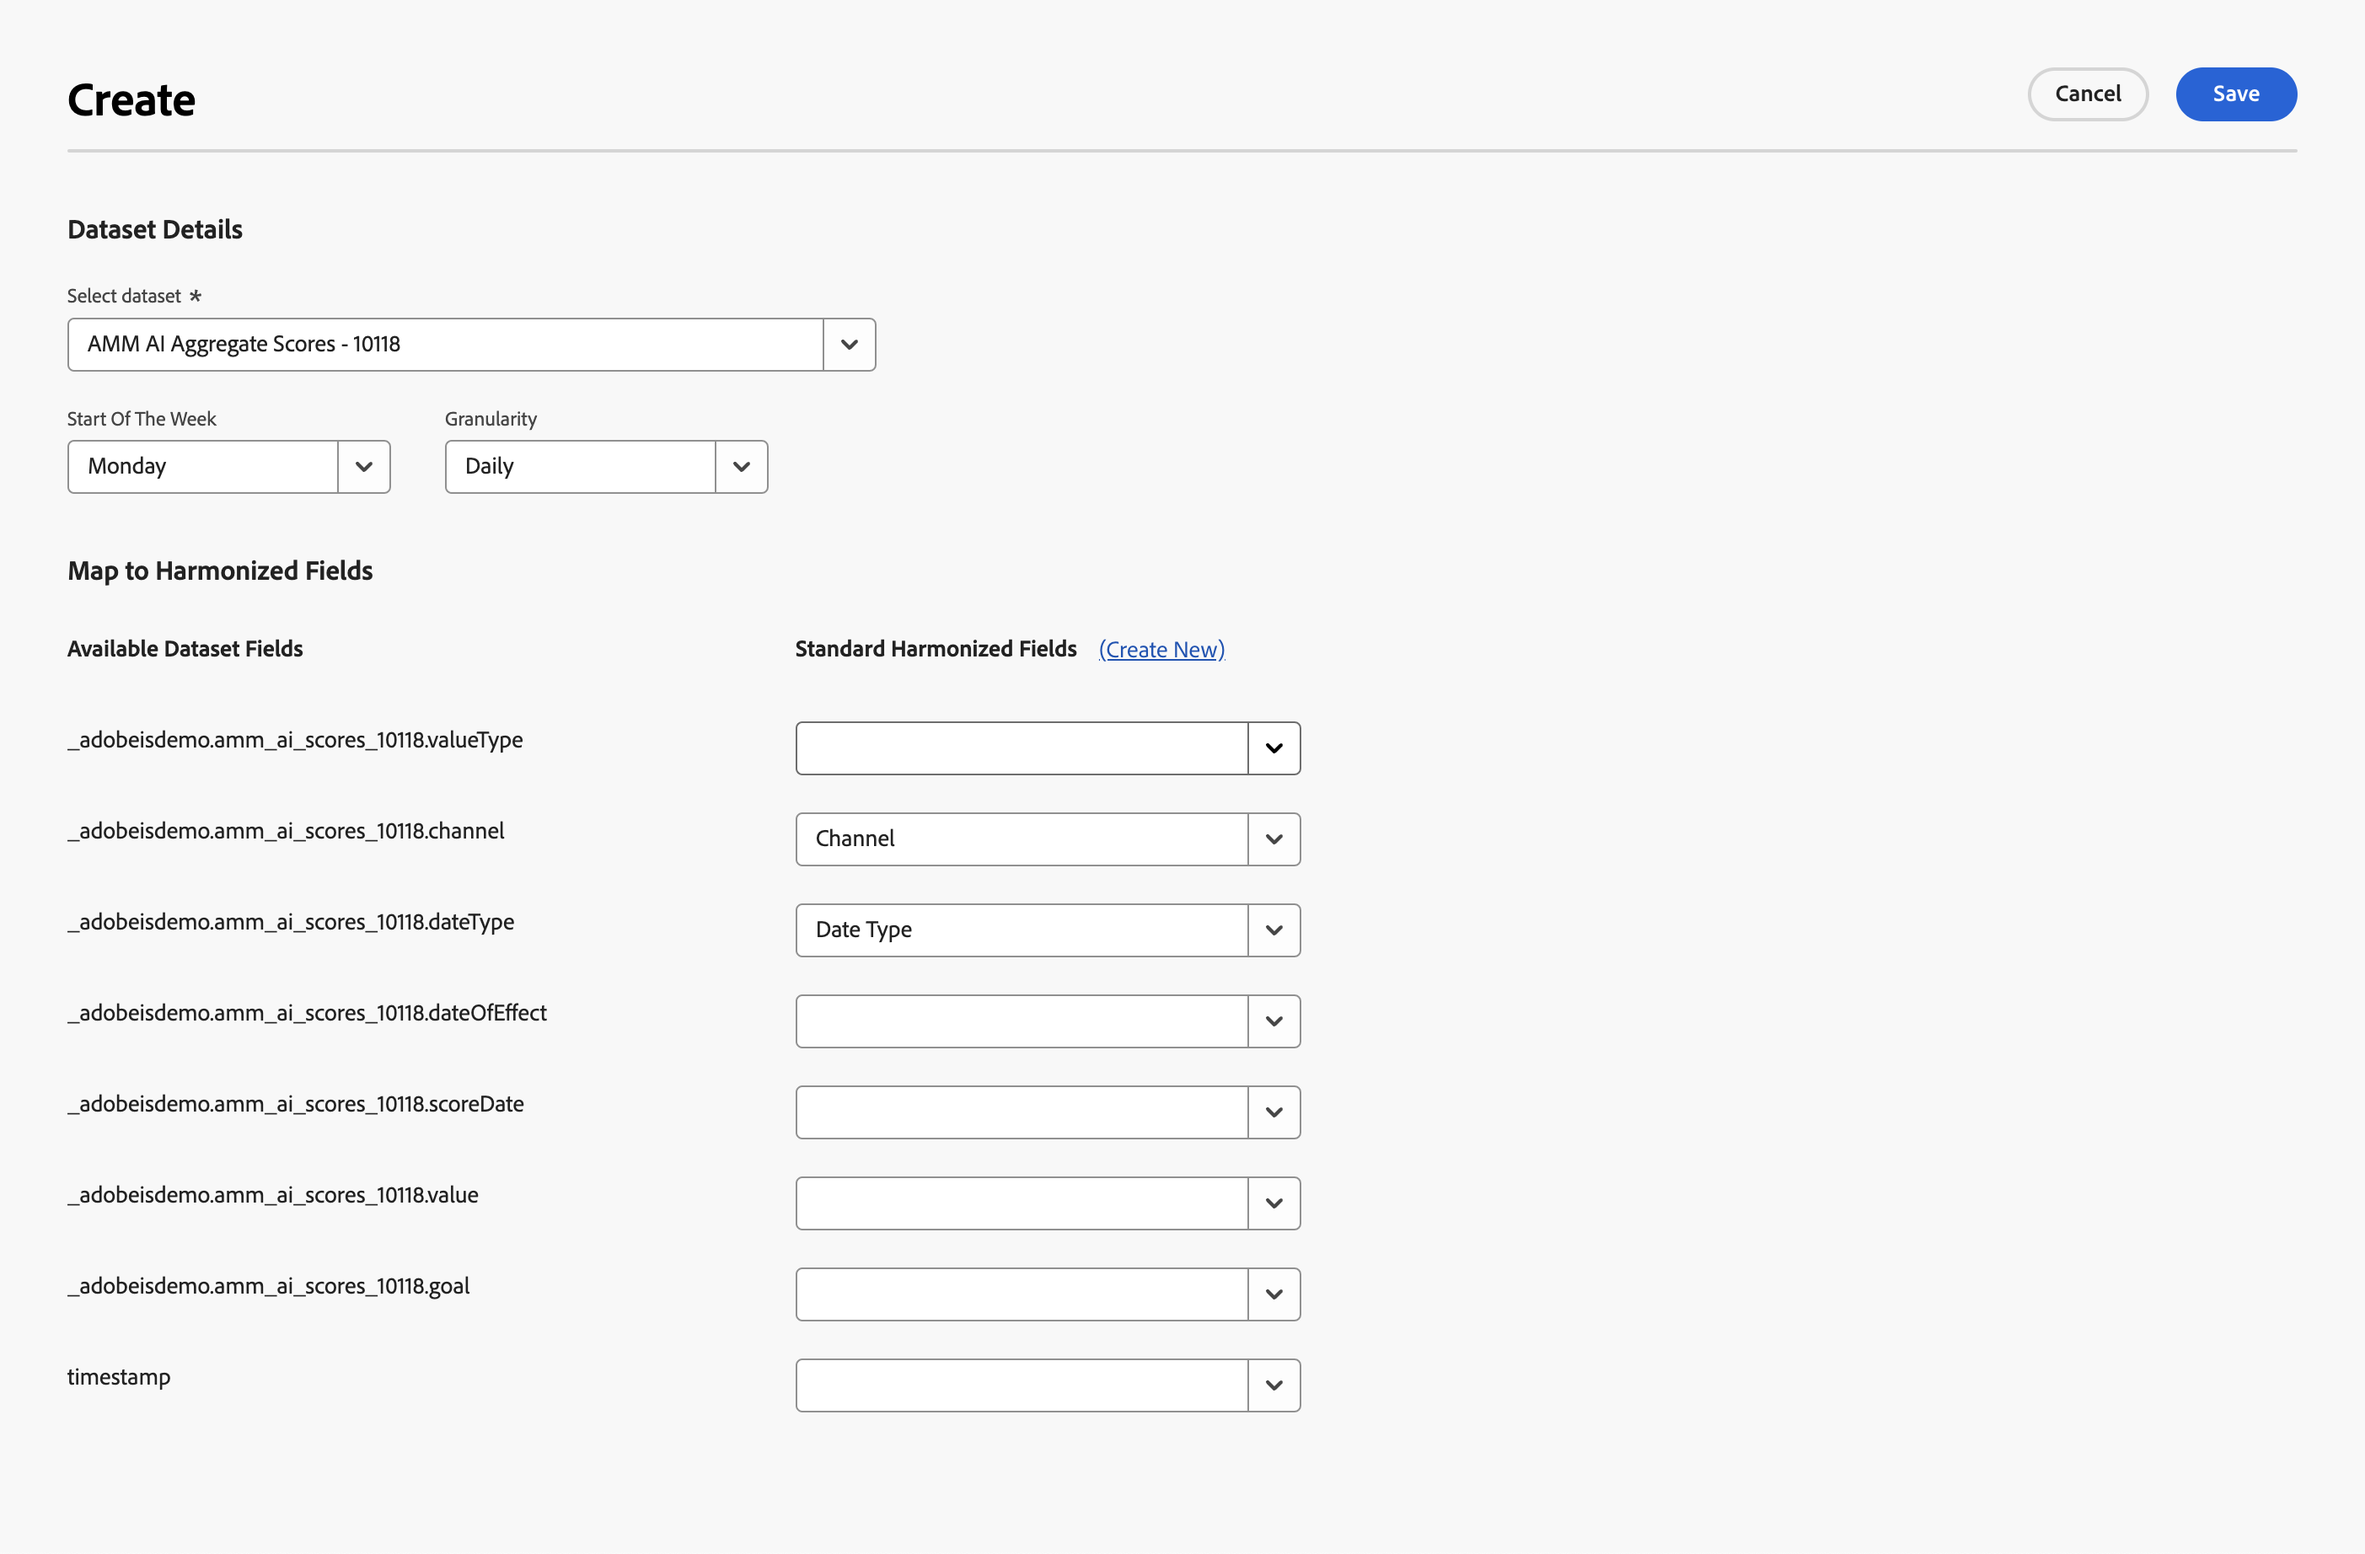
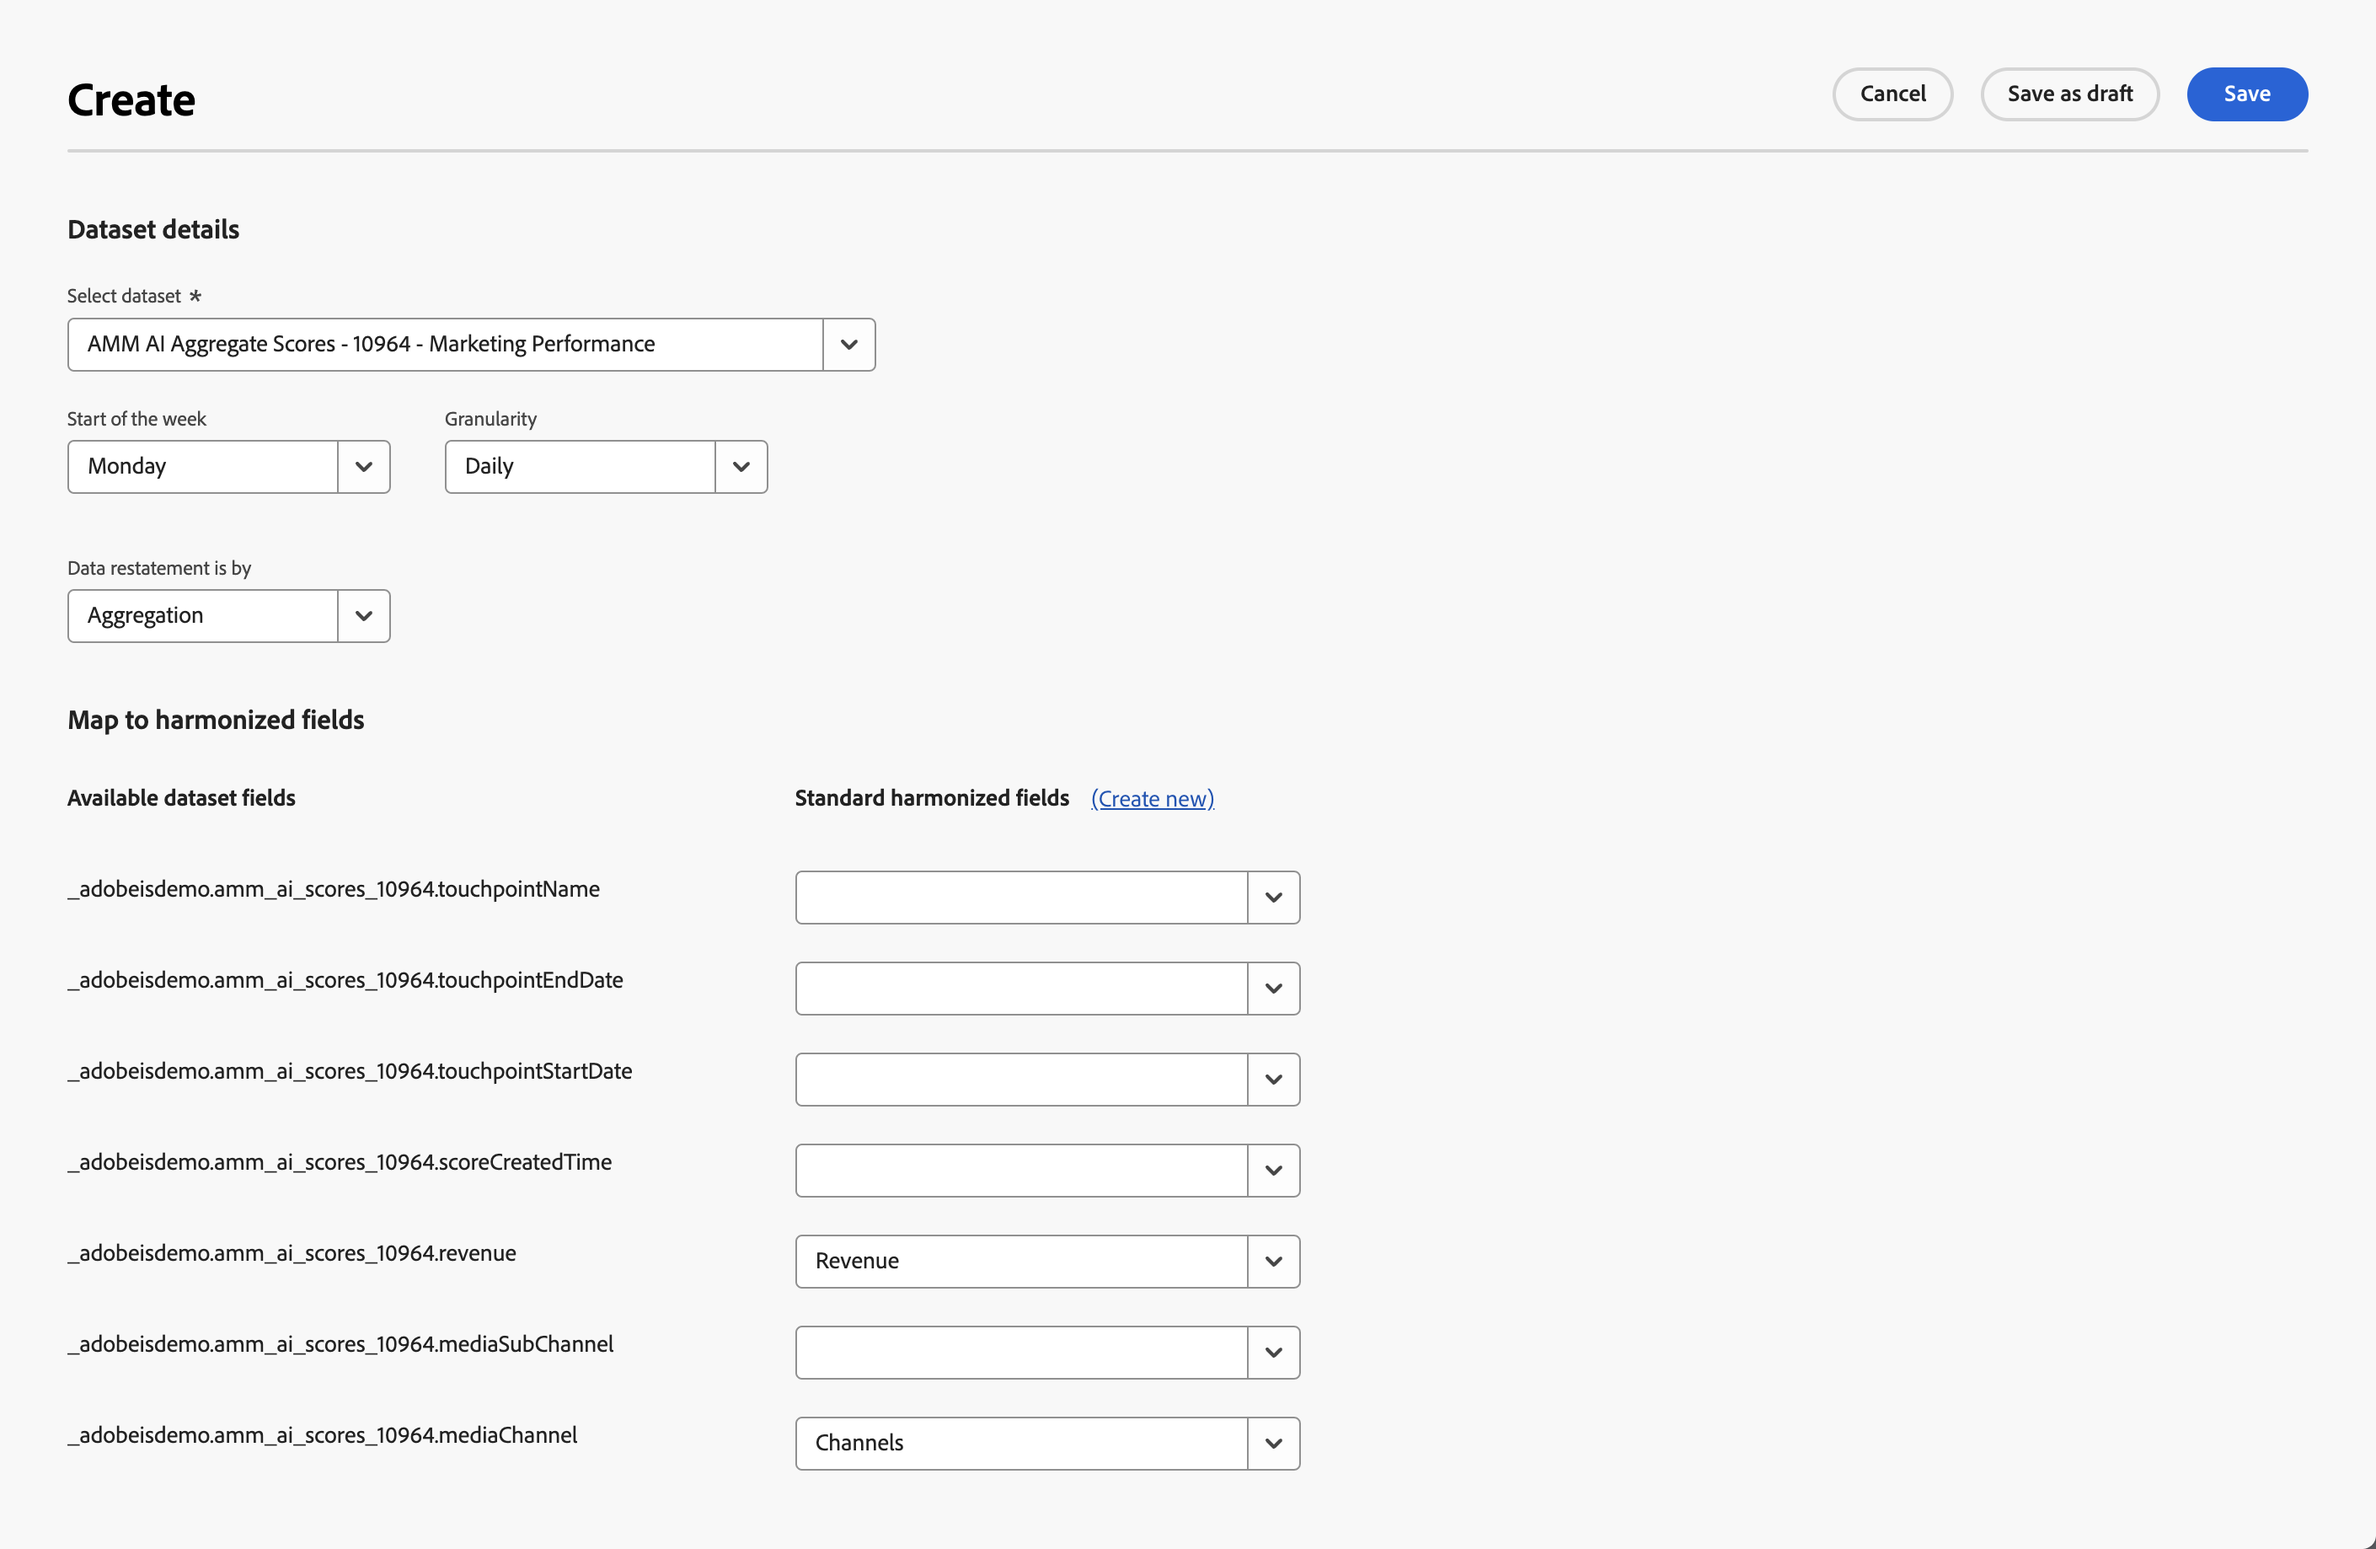
Release April 2024

diff --git a/help/releases/latest.md b/help/releases/latest.md
@@ -7,17 +7,24 @@ exl-id: 38a47672-2af2-437c-b769-4d5febb941f5
 ---
 # Current Mix Modeler release notes
 
-**Last update**: January 31, 2024.
+**Last update**: April 1, 2024.
 
 These release notes cover the latest release of Mix Modeler. Mix Modeler releases operate on a continuous delivery model which allows for an approximate monthly release cadence. Accordingly, these release notes get updated, so  check them regularly.
 
 
-## New or updated features
+## April 2024
 
 | Feature | Description | General Availability |
 |---|---|---|
-| **Model quality update** | [Model quality](/help/models/insights.md) in Model insights now shows a visualization for the model assessment and a table with model fitting metrics. | March 24, 2024 |
-| **Enhanced downloads** | You can now [download full model insights](../models/insights.md) in Microsoft&reg; Excel format | January 31, 2024 |
+| **Date restatement options** | For aggregrate datasets, when defining [rules](../harmonize-data/dataset-rules.md), you can define whether data restatement is by aggregation or replacement. | April 1, 2024 | 
+| **Model quality update** | [Model quality](/help/models/insights.md) in Model insights now shows a visualization for the model assessment and a table with model fitting metrics. | April 1, 2024 |
+
+
+## January 2024 
+
+| Feature | Description | General Availability |
+|---|---|---|
+| **Enhanced downloads** | You can [download full model insights](../models/insights.md) in Microsoft&reg; Excel format | January 31, 2024 |
 | **Marginal response curves** | [Model insights](../models/insights.md) provides an additional widget to show marginal response curves. | January 31, 2024 |
 | **Data merge preferences** | You can define [data merge preferences](../harmonize-data/dataset-rules.md#data-merge-preferences) for dataset rules for harmonized datasets. | January 31, 2024 | 
 | **Usage report**| The Harmonized datasets UI has an additional [Usage report](../harmonize-data/usage-report.md) tab providing additional insights into usage of models and conversions.  | January 31, 2024 |

diff --git a/help/harmonize-data/overview.md b/help/harmonize-data/overview.md
@@ -11,7 +11,7 @@ The data in Mix Modeler is of different nature depending on the source of data. 
 * aggregate or summary data, for example collected from walled garden data sources or offline advertising data gathered (like spend) from running a billboard campaign, an event, or a physical ad campaign,
 * event data, for example from first party data sources. This event data can be data collected through the Adobe Analytics source connector from Adobe Analytics, or through the Experience Platform Web or Mobile SDK or Edge Network API, or data ingested using source connectors.
 
-The harmonization service of Mix Modeler assimilates the aggregate and event data into a consistent data view. This data view, combined with internal and external factors data, is the source for the models in Mix Modeler.
+The harmonization service of Mix Modeler assimilates the aggregate and event data into a consistent data view. This data view, combined with internal and external factors data, is the source for the models in Mix Modeler. The service uses the highest granularity across the different datasets. For example. if one dataset has a granularity of monthly and remaining datasets do have weekly and daily granularity, the harmonization service will create a data view using monthly granularity.
 
 ## An example of harmonized data
 

diff --git a/help/harmonize-data/dataset-rules.md b/help/harmonize-data/dataset-rules.md
@@ -47,6 +47,8 @@ In the **[!UICONTROL Create]** screen,
 1. Select **[!UICONTROL Daily]**, **[!UICONTROL Weekly]**, **[!UICONTROL Monthly]** or **[!UICONTROL Yearly]** for **[!UICONTROL Granularity]**.
 
 1. When you have selected a dataset of **[!UICONTROL Summary]** category:
+
+   1. To define whether data for the dataset needs to be aggregated or is replacing existing data, select **[!UICONTROL Aggregation]** or **[!UICONTROL Replacement]** for **[!UICONTROL Data restatement is by]**. 
    
    1. Map each of the **[!UICONTROL Available dataset fields]** to corresponding **[!UICONTROL Standard harmonized fields]** in **[!UICONTROL Map to harmonized fields]**. If you do not want to map a dataset field to a harmonized field, explicitly select **[!UICONTROL -- None --]**.
 

diff --git a/help/models/insights.md b/help/models/insights.md
@@ -80,7 +80,7 @@ The model quality tabs shows a
 
      To breakdown the visualization, select **[!UICONTROL Actual vs. Predicted]** or **[!UICONTROL Residuals]** from the **[!UICONTROL Breakdown]** list.
 
-  * [!UICONTROL Model fitting metrics] table, showing the following colunmns for each conversion metrics:
+  * [!UICONTROL Model fitting metrics] table, showing the following columns for each conversion metrics:
   
     * Actual Conversion
     
